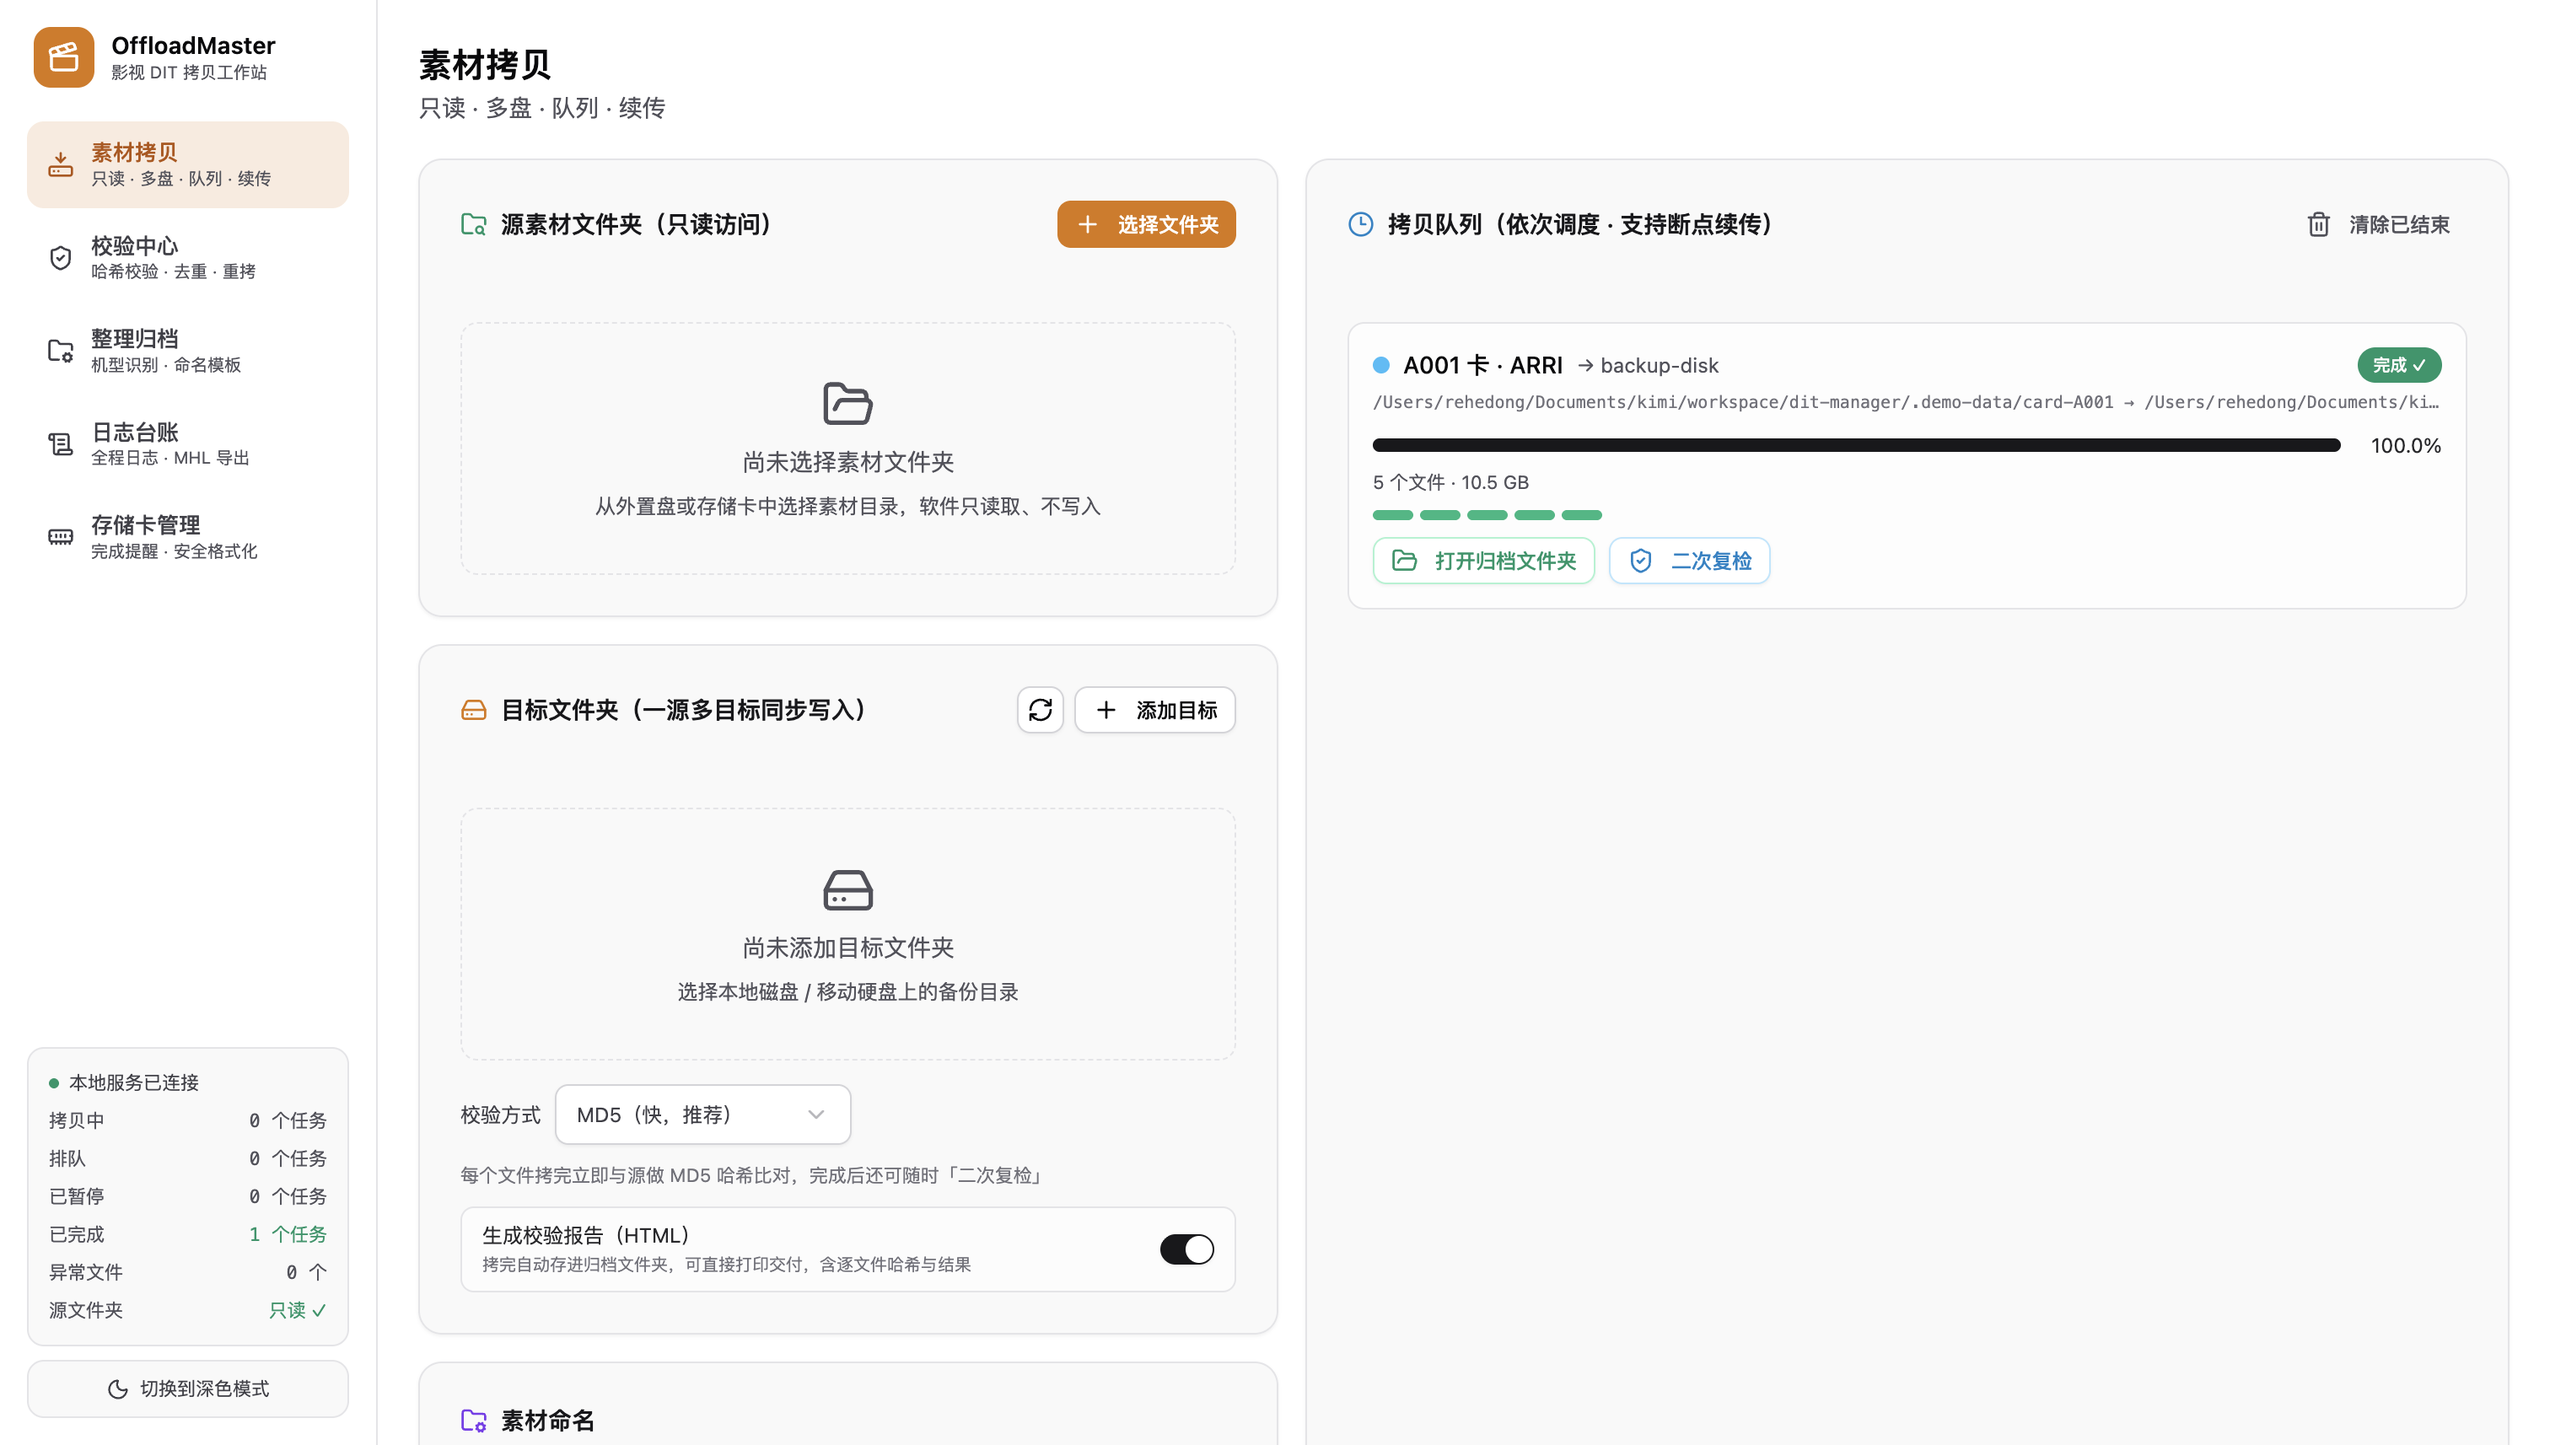
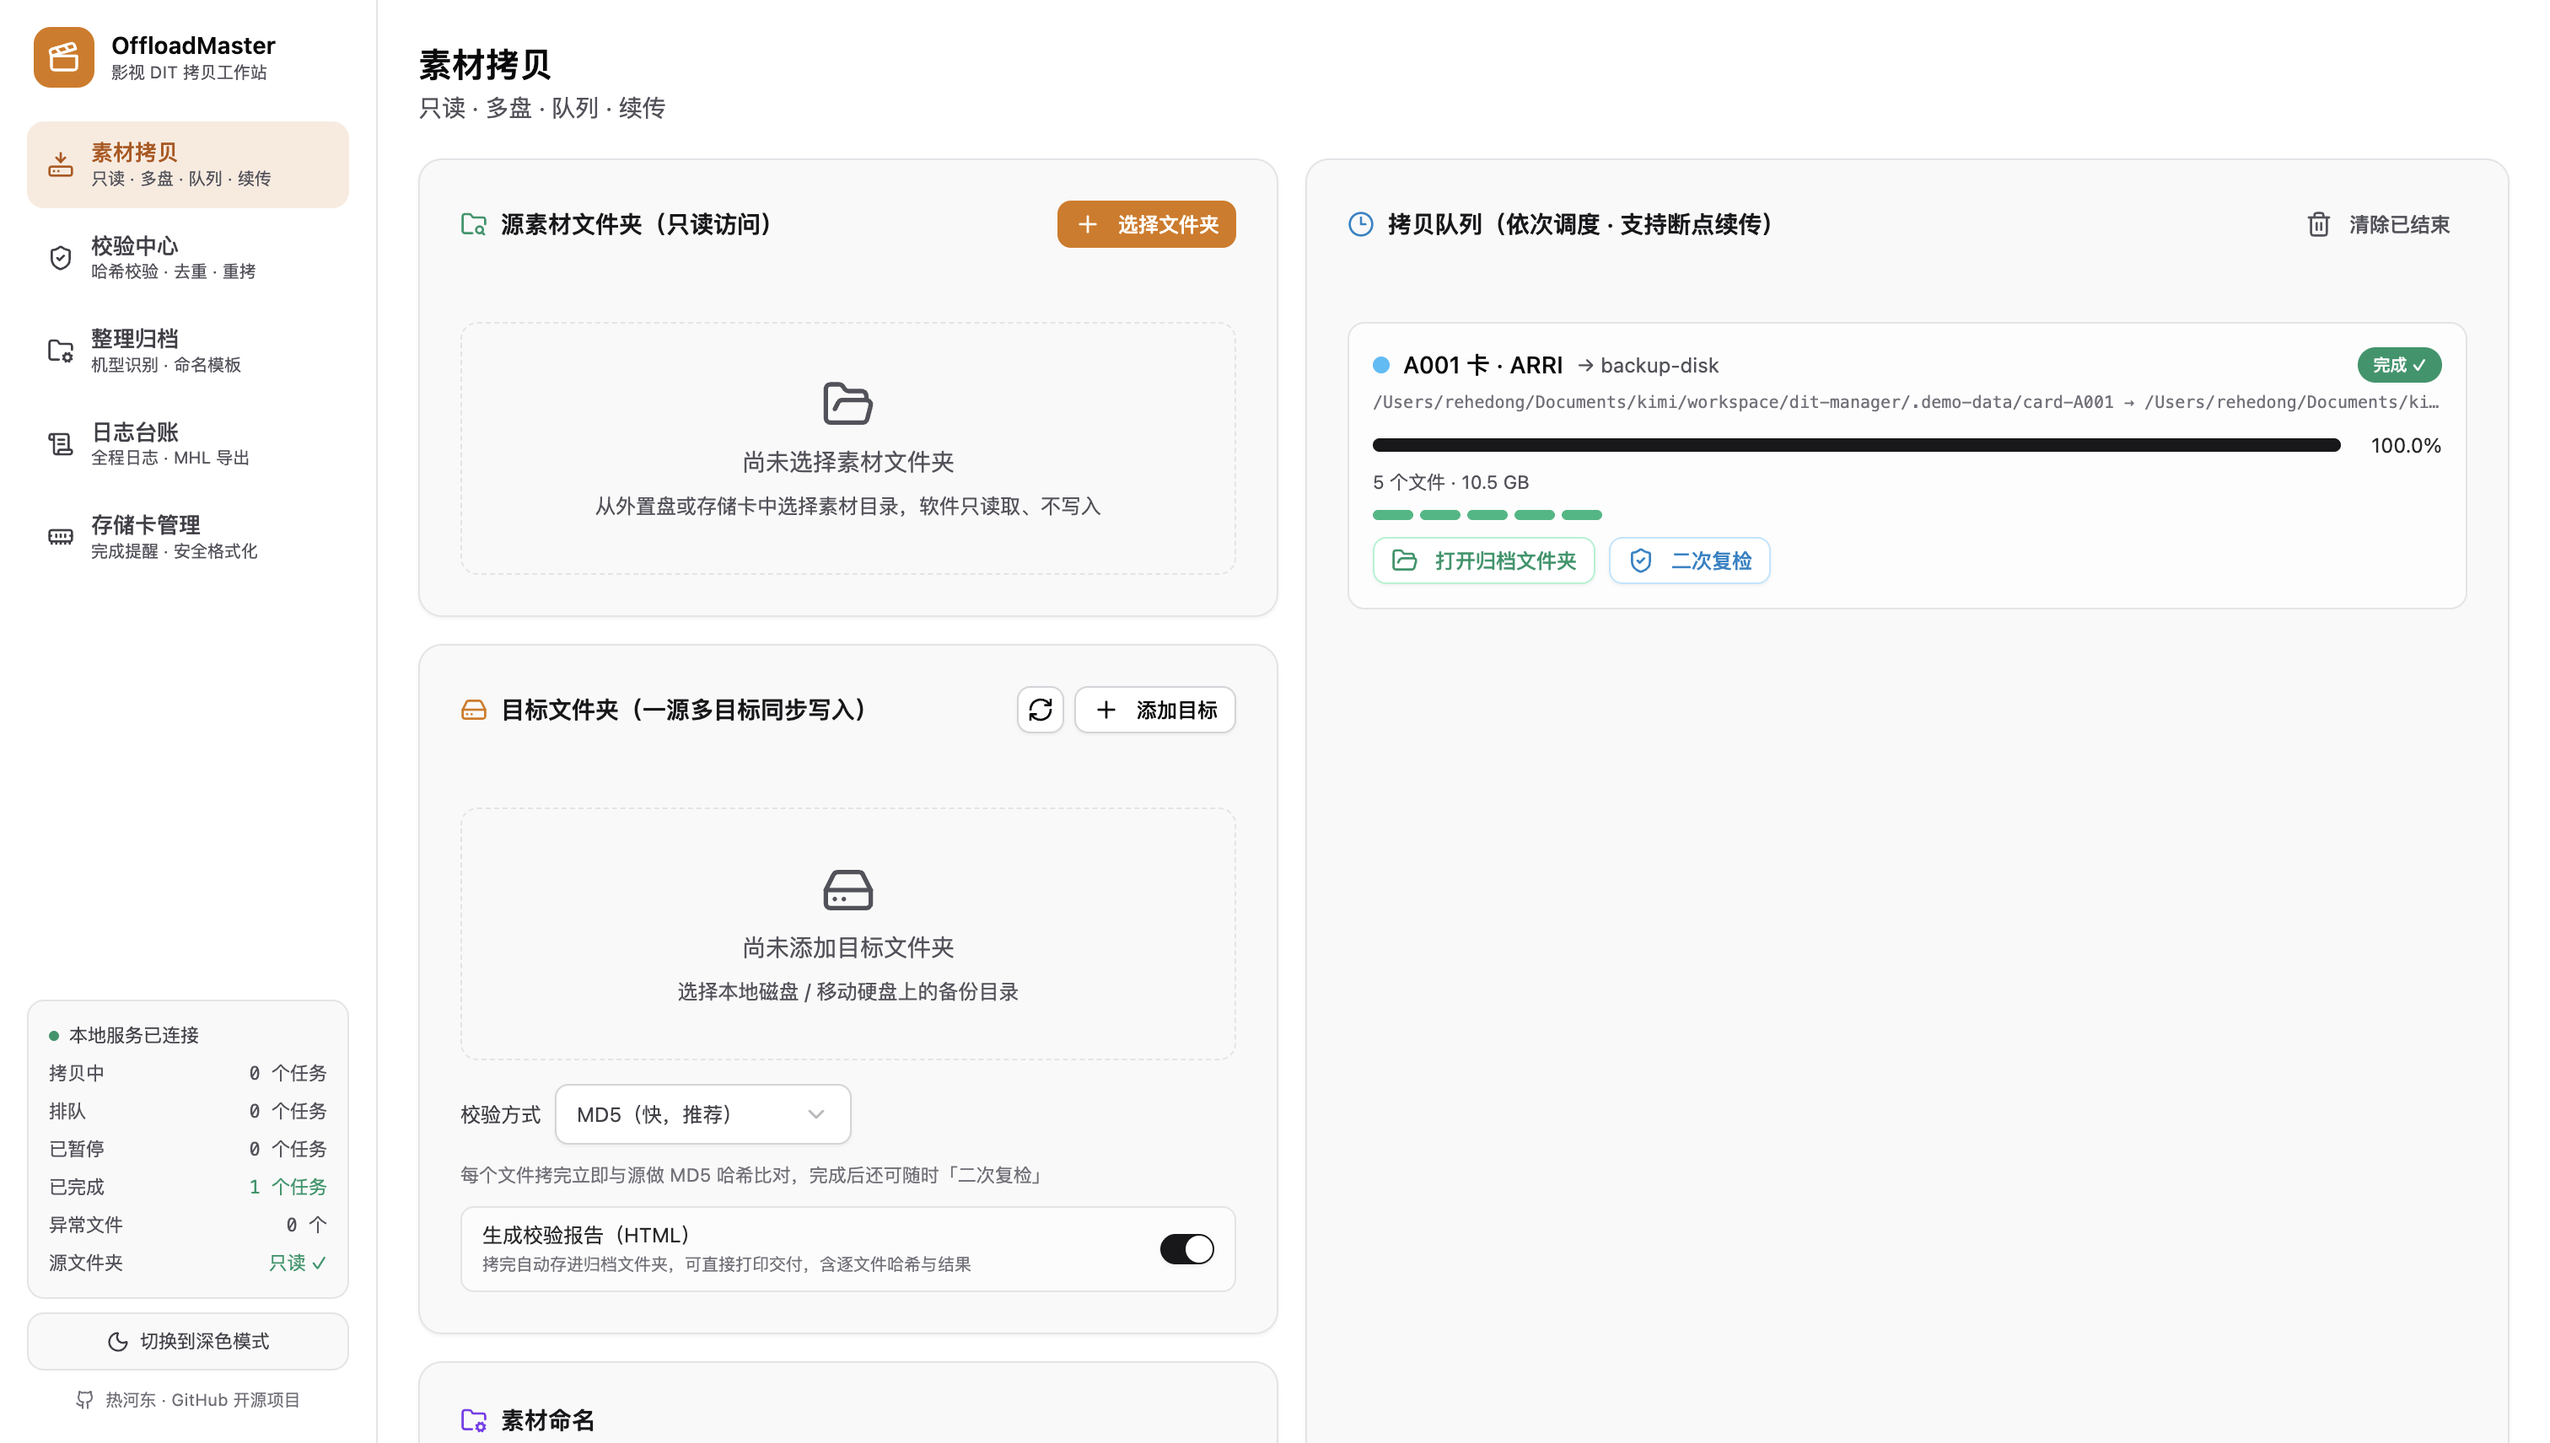
v2.5.1：修复长路径挤压布局；新增作者署名（热河东）与 GitHub 链接

diff --git a/src/pages/Home.tsx b/src/pages/Home.tsx
@@ -1,6 +1,6 @@
 // OffloadMaster —— 影视 DIT 素材拷贝管理工作站
 import { useEffect, useState } from 'react'
-import { HardDriveDownload, ShieldCheck, FolderCog, ScrollText, MemoryStick, Clapperboard, Sun, Moon } from 'lucide-react'
+import { HardDriveDownload, ShieldCheck, FolderCog, ScrollText, MemoryStick, Clapperboard, Sun, Moon, Github } from 'lucide-react'
 import { Toaster } from '@/components/ui/sonner'
 import CopyView from '@/components/dit/CopyView'
 import VerifyView from '@/components/dit/VerifyView'
@@ -104,6 +104,16 @@ export default function Home() {
             {theme === 'dark' ? <Sun className="h-3.5 w-3.5" /> : <Moon className="h-3.5 w-3.5" />}
             {theme === 'dark' ? '切换到浅色模式' : '切换到深色模式'}
           </button>
+          {/* 作者署名 + GitHub 开源地址（点击用系统浏览器打开） */}
+          <a
+            href="https://github.com/rehedon/offloadmaster"
+            target="_blank"
+            rel="noreferrer"
+            title="在 GitHub 上查看 OffloadMaster 源码"
+            className="flex w-full items-center justify-center gap-1.5 py-0.5 text-[10px] text-zinc-600 transition-colors hover:text-zinc-300">
+            <Github className="h-3 w-3" />
+            热河东 · GitHub 开源项目
+          </a>
         </div>
       </aside>
 

diff --git a/README.md b/README.md
@@ -20,8 +20,8 @@
 
 | 平台 | 安装包 | 说明 |
 | --- | --- | --- |
-| macOS（M 芯片） | [OffloadMaster-2.5.0-arm64.dmg](https://github.com/rehedon/offloadmaster/releases/download/v2.5.0/OffloadMaster-2.5.0-arm64.dmg) | 首次打开如被系统拦截，按安装窗口里的「安装说明」放行一次即可 |
-| Windows 10 / 11（x64） | [OffloadMaster-2.5.0-win-x64.exe](https://github.com/rehedon/offloadmaster/releases/download/v2.5.0/OffloadMaster-2.5.0-win-x64.exe) | 双击安装，可自选安装位置 |
+| macOS（M 芯片） | [OffloadMaster-2.5.1-arm64.dmg](https://github.com/rehedon/offloadmaster/releases/download/v2.5.1/OffloadMaster-2.5.1-arm64.dmg) | 首次打开如被系统拦截，按安装窗口里的「安装说明」放行一次即可 |
+| Windows 10 / 11（x64） | [OffloadMaster-2.5.1-win-x64.exe](https://github.com/rehedon/offloadmaster/releases/download/v2.5.1/OffloadMaster-2.5.1-win-x64.exe) | 双击安装，可自选安装位置 |
 
 历史版本与更新说明见 [Releases](https://github.com/rehedon/offloadmaster/releases) 和 [CHANGELOG](CHANGELOG.md)。
 

diff --git a/CHANGELOG.md b/CHANGELOG.md
@@ -4,6 +4,11 @@
 
 ---
 
+## v2.5.1（2026-08-09）
+
+- 修复：超长文件夹路径会把素材拷贝页右栏撑宽、左栏挤窄，现在比例固定，长路径自动省略号截断
+- 侧边栏底部新增作者署名「热河东」和 GitHub 开源项目链接（点击用系统浏览器打开）
+
 ## v2.5.0（2026-08-07）
 
 - Mac 版修复「拷到别的电脑打不开」：应用补上临时签名（ad-hoc），不会再报「已损坏」
